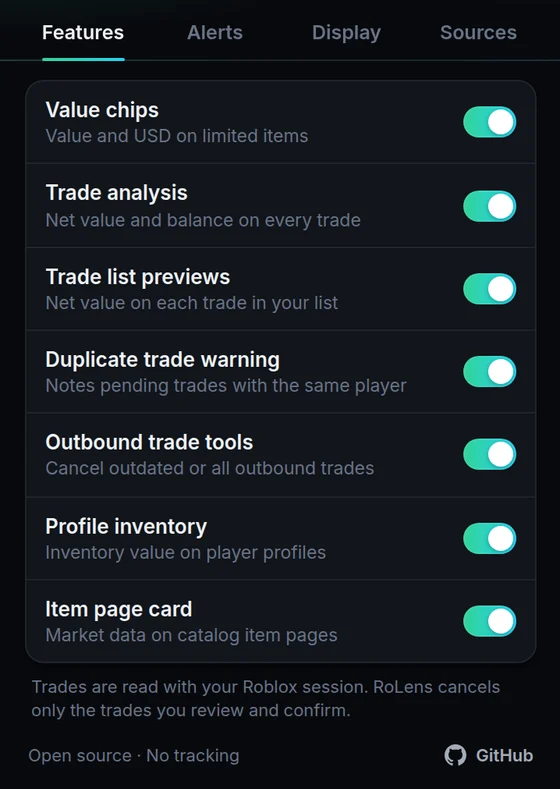
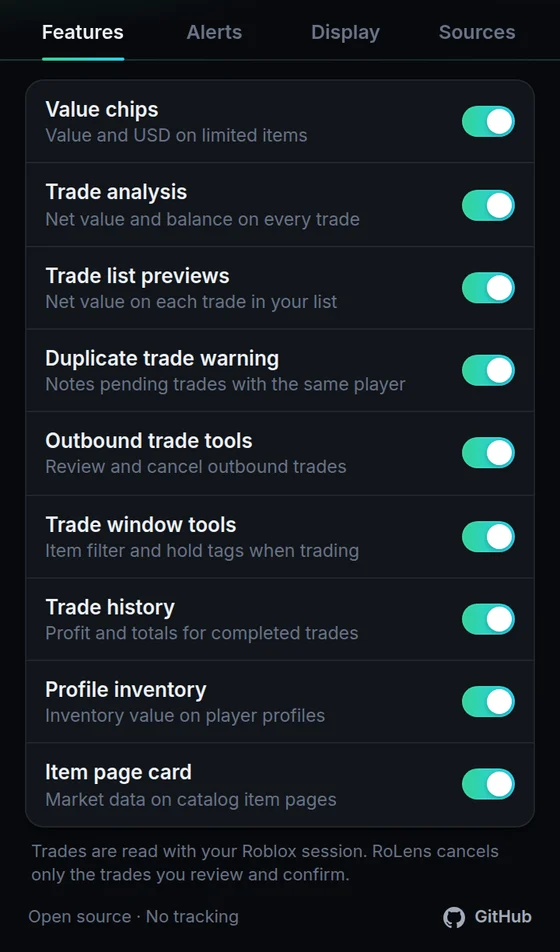
Float the rare Roblox items around the RoLens screenshots in high definition
Items are served as 420px transparent images through the Worker and carry
their live value. The popup screenshot is refreshed from RoLens 0.12.2.
The drawn products on the Aurora card are removed until real product
images are in place.

Claude-Session: https://claude.ai/code/session_01EvumWKiJc8f6jvbiyKWxM4

diff --git a/public/styles.css b/public/styles.css
@@ -578,32 +578,36 @@ main > section:first-of-type { border-top: 0; }
 }
 .legal-body a { color: var(--accent); text-underline-offset: 3px; }
 
-/* RoLens home card: rare items, filled in with live values */
+/* RoLens home card: rare items floating around the screenshots, filled in with live values */
 .media-rolens { container-type: inline-size; }
-.rl-rares {
-  position: absolute; left: 5%; bottom: 5%; width: 53%;
-  list-style: none; margin: 0; padding: 0;
-  display: grid; grid-template-columns: repeat(3, minmax(0, 1fr)); gap: 1.4cqw;
+.rl-item { top: 24%; left: 5%; width: 57%; }
+.rl-popup { top: 7%; right: 5%; width: 33%; }
+.rl-popup img { border-radius: 12px 12px 0 0; }
+.float {
+  position: absolute; z-index: 1;
+  display: grid; justify-items: center; gap: 0.4cqw;
+  pointer-events: none;
+  animation: bob 7s ease-in-out infinite;
 }
-.rare {
-  display: grid; justify-items: center; align-content: start; gap: 0.6cqw;
-  padding: 1.4cqw 1cqw 1.3cqw;
-  text-align: center;
-  background: var(--surface);
-  border: 1px solid var(--rule-strong);
-  border-radius: 1.6cqw;
-  box-shadow: 0 16px 32px -20px rgba(9, 11, 16, 0.45);
+.float-img {
+  display: block; width: 100%; aspect-ratio: 1; height: auto; object-fit: contain;
+  filter: drop-shadow(0 1.6cqw 1.6cqw rgba(9, 11, 16, 0.4));
 }
-.rare-thumb {
-  width: 8cqw; height: 8cqw; border-radius: 1.2cqw;
-  background: var(--sunken); object-fit: contain; display: block;
+span.float-img { visibility: hidden; }
+.float-val {
+  margin-top: -2.6cqw;
+  padding: 0.5cqw 1.3cqw; border-radius: 999px;
+  background: var(--surface); border: 1px solid var(--rule-strong);
+  box-shadow: 0 10px 24px -14px rgba(9, 11, 16, 0.5);
+  font: 500 max(8px, 1.6cqw)/1.2 var(--mono); color: var(--accent);
 }
-.rare-name {
-  font-size: max(8px, 1.7cqw); font-weight: 600; line-height: 1.2; color: var(--ink);
-  min-height: 2.4em; display: grid; align-items: center; text-wrap: balance;
-}
-.rare-val { font: 500 max(8px, 1.75cqw)/1.2 var(--mono); color: var(--accent); min-height: 1.2em; }
-.rl-item { top: 8%; left: 5%; width: 53%; }
+.float-val:empty { display: none; }
+.f1 { left: 0%; top: 54%; width: 17%; --r: -8deg; }
+.f2 { left: 42%; top: 61%; width: 15%; --r: 6deg; animation-delay: -2.4s; }
+.f3 { left: 27%; top: -2%; width: 14%; --r: 5deg; animation-delay: -4.6s; }
+.float .float-img { transform: rotate(var(--r)); }
+@keyframes bob { 50% { translate: 0 -0.9cqw; } }
+@media (prefers-reduced-motion: reduce) { .float { animation: none; } }
 
 /* RoLens page: the Trades list, recreated so real avatars can be shown */
 .shot-frame {
@@ -658,10 +662,4 @@ main > section:first-of-type { border-top: 0; }
   .tl { --tl-bg: #1b1c1f; --tl-ink: #f7f7f8; --tl-muted: #b8b9bb; --tl-line: #2d2f33; --tl-sel: #232428; --tl-av: #2d2f33; }
   .tl-chip { color: #3fd3a6; background: rgba(63, 211, 166, 0.1); border-color: rgba(63, 211, 166, 0.35); }
   .tl-warn { color: #fbbf24; }
-}
-
-/* Aurora home card: the kind of products it watches, drawn generically */
-.project-media .au-products {
-  position: absolute; left: 2%; bottom: -3%; width: 44%; height: auto; max-width: none;
-  pointer-events: none;
 }

diff --git a/public/index.html b/public/index.html
@@ -111,11 +111,9 @@
                 <source srcset="/rolens/shots/popup-dark.webp" media="(prefers-color-scheme: dark)">
                 <img src="/rolens/shots/popup-light.webp" alt="" width="560" height="789" decoding="async">
               </picture>
-              <ul class="rl-rares">
-                <li class="rare" data-rare="Red Sparkle Time Fedora"><span class="rare-thumb"></span><span class="rare-name">Red Sparkle Time Fedora</span><span class="rare-val" data-f="value"></span></li>
-                <li class="rare" data-rare="Rainbow Shaggy"><span class="rare-thumb"></span><span class="rare-name">Rainbow Shaggy</span><span class="rare-val" data-f="value"></span></li>
-                <li class="rare" data-rare="Domino Crown"><span class="rare-thumb"></span><span class="rare-name">Domino Crown</span><span class="rare-val" data-f="value"></span></li>
-              </ul>
+              <div class="float f1" data-rare="Red Sparkle Time Fedora"><span class="float-img"></span><span class="float-val" data-f="value" title="Red Sparkle Time Fedora"></span></div>
+              <div class="float f2" data-rare="Rainbow Shaggy"><span class="float-img"></span><span class="float-val" data-f="value" title="Rainbow Shaggy"></span></div>
+              <div class="float f3" data-rare="Domino Crown"><span class="float-img"></span><span class="float-val" data-f="value" title="Domino Crown"></span></div>
             </div>
           </div>
           <div class="project-body">
@@ -137,7 +135,6 @@
           <div class="project-media media-aurora">
             <svg class="media-icon" aria-hidden="true"><use href="#i-aurora"/></svg>
             <img class="shot" src="/aurora/card.webp" alt="" width="1280" height="788" loading="lazy" decoding="async">
-            <img class="au-products" src="/aurora/products.svg" alt="" width="520" height="360" decoding="async">
           </div>
           <div class="project-body">
             <div class="project-top">

diff --git a/src/worker.js b/src/worker.js
@@ -2,6 +2,7 @@
 //   GET /api/values        current Rolimon's value, RAP and demand for the showcased items,
 //                          plus the rare items shown on the home page (resolved by name)
 //   GET /api/thumb/:id     an item's Roblox thumbnail (showcased and rare items only)
+//   GET /api/item/:id      a rare item's large transparent image for the home page
 //   GET /api/traders       name and display name of the traders in the example trade list
 //   GET /api/avatar/:id    a trader's Roblox headshot (listed traders only)
 // Images are proxied so visitors never contact Roblox. Only the items and players below are
@@ -37,6 +38,14 @@ export default {
       }
       return cached(request, ctx, THUMB_TTL, () =>
         fetchImage(`https://thumbnails.roblox.com/v1/assets?assetIds=${id}&size=150x150&format=Webp&isCircular=false`),
+      );
+    }
+    const large = url.pathname.match(/^\/api\/item\/(\d+)$/);
+    if (large) {
+      const id = Number(large[1]);
+      if (!(await rareIds(request, ctx)).includes(id)) return new Response("Not found", { status: 404 });
+      return cached(request, ctx, THUMB_TTL, () =>
+        fetchImage(`https://thumbnails.roblox.com/v1/assets?assetIds=${id}&size=420x420&format=Png&isCircular=false`),
       );
     }
     if (url.pathname === "/api/traders") {

diff --git a/public/app.js b/public/app.js
@@ -32,7 +32,7 @@
     else img.addEventListener("error", () => hideBroken(img), { once: true });
   });
 
-  // Rare items on the home card: thumbnail and value, or the row is removed if Rolimon's has no such item.
+  // Rare items on the home card: large image and value, or the item is removed if Rolimon's has no such item.
   const showRare = (rare) => {
     for (const row of document.querySelectorAll("[data-rare]")) {
       const item = rare.find((r) => r.name === row.dataset.rare);
@@ -42,13 +42,13 @@
       }
       const worth = item.value || item.rap || 0;
       set(row, "value", worth ? compact(worth) : "");
-      const slot = row.querySelector(".rare-thumb");
+      const slot = row.querySelector(".float-img");
       if (slot && slot.tagName !== "IMG") {
         const img = document.createElement("img");
-        img.className = "rare-thumb";
+        img.className = "float-img";
         img.alt = "";
         img.decoding = "async";
-        img.src = `/api/thumb/${item.id}`;
+        img.src = `/api/item/${item.id}`;
         img.addEventListener("error", () => img.replaceWith(slot), { once: true });
         slot.replaceWith(img);
       }
